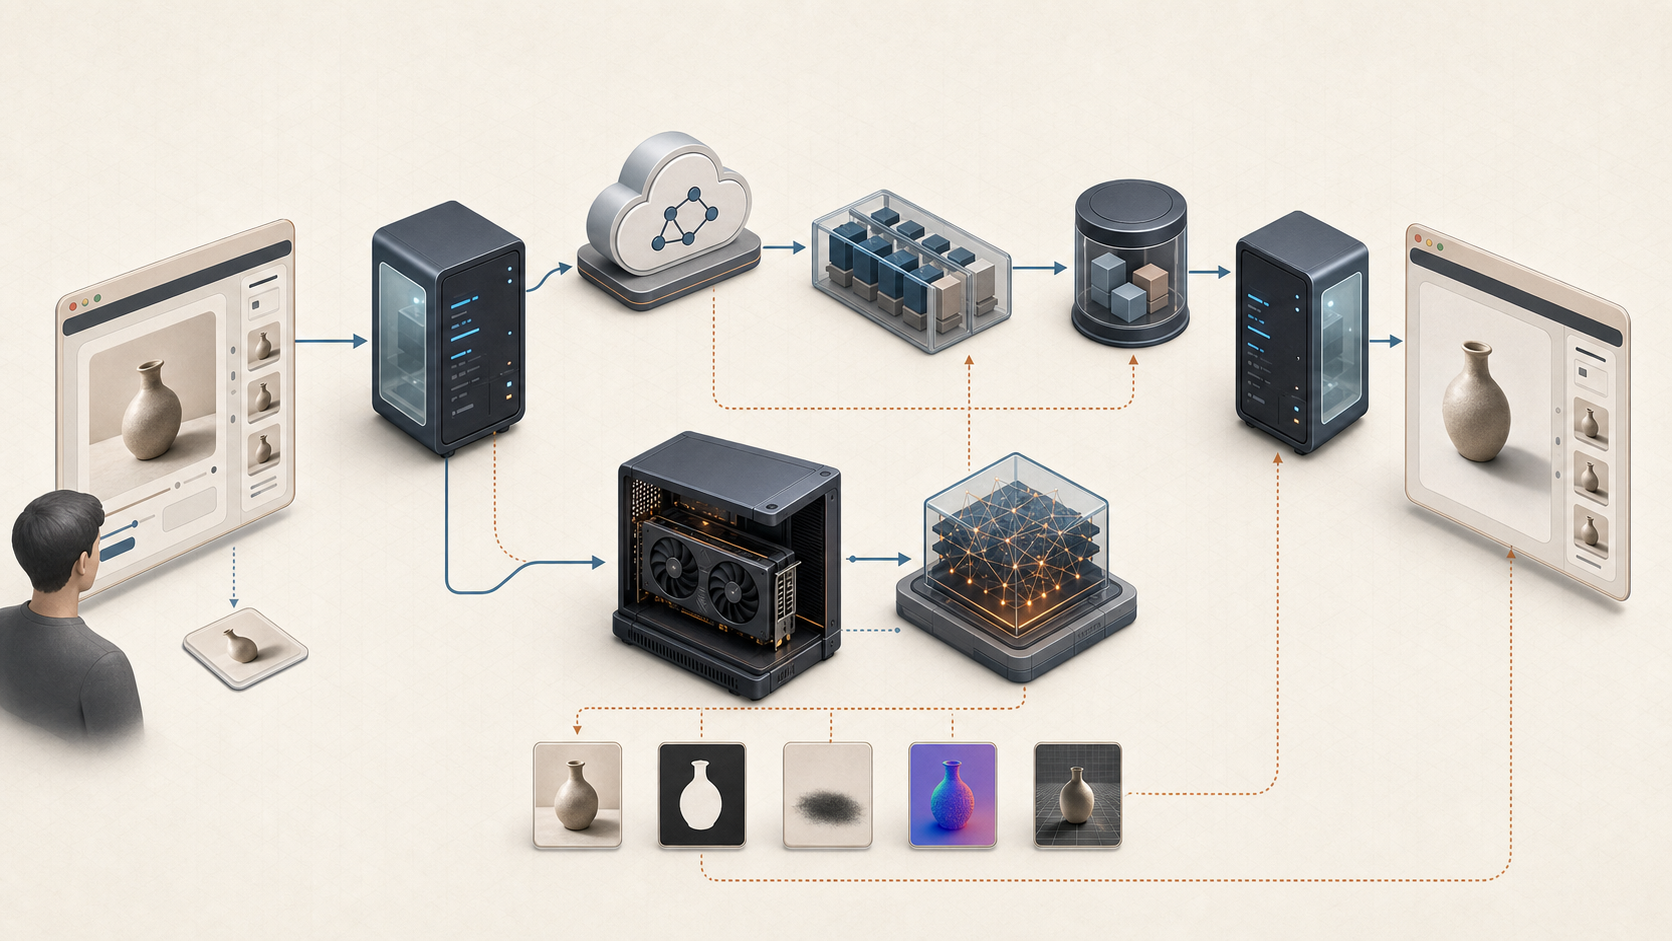
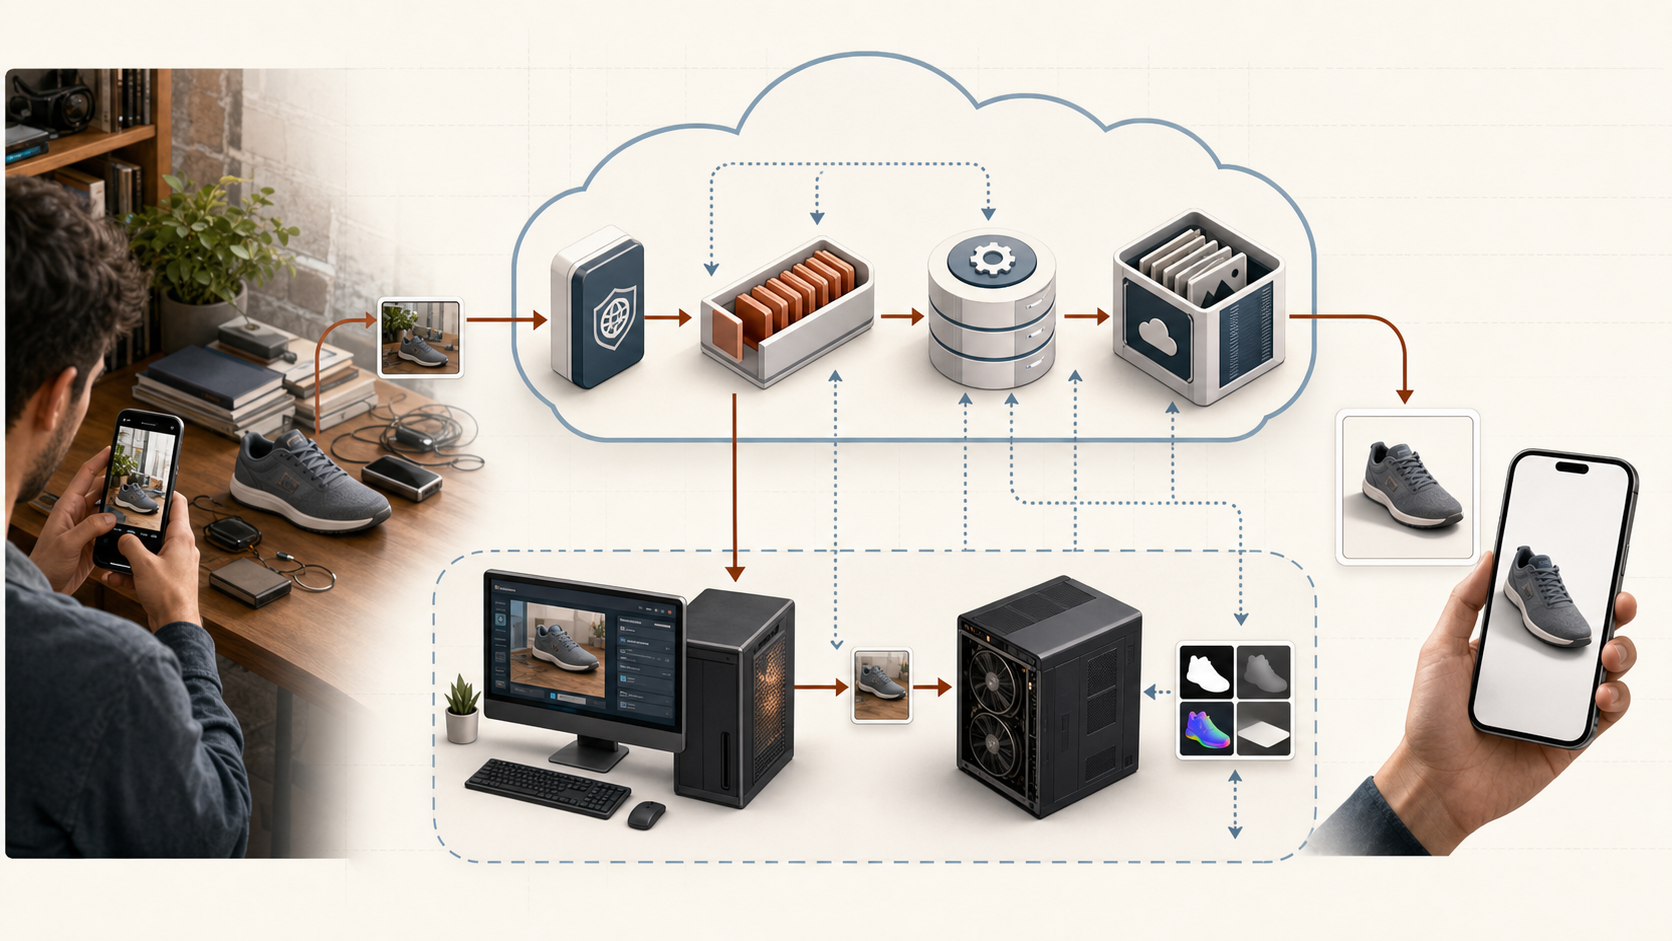
Correct service architecture illustrations

diff --git a/docs/project-page/index.html b/docs/project-page/index.html
@@ -654,8 +654,8 @@
   <script>
     const mediaCaptions = {
       video: "Входное изображение проходит через выделение объекта, оценку сцены, генерацию тени и финальную композицию.",
-      product: "Пользовательский запрос проходит через web и API, очередь задач, локальный worker и ML-сервис; результаты и диагностические артефакты возвращаются через общее хранилище.",
-      service: "ML-сервис последовательно выполняет detection, segmentation, foreground refinement, depth, normals, shadow generation и composition.",
+      product: "Пользователь фотографирует объект на телефоне. Задача попадает в облачную очередь, откуда ее забирает worker на локальном компьютере и передает локальному GPU-серверу.",
+      service: "ML-сервис выделяет объект из фотографии с произвольным фоном, оценивает depth и normals, генерирует тень и собирает итоговую композицию.",
       dataset: "Датасет собирается из отфильтрованных 3D-объектов: Blender-рендеринг формирует RGB, depth, normals, mask и metadata для каждой сцены.",
       training: "Training workspace связывает версии датасета, конфигурации экспериментов, GPU-обучение, оценку результатов и экспорт модели для inference."
     };

diff --git a/docs/project-page/IMAGE_PROMPTS.md b/docs/project-page/IMAGE_PROMPTS.md
@@ -9,15 +9,15 @@
 ```text
 Use case: infographic-diagram
 Asset type: wide technical illustration for an academic ML project page, 16:9 landscape
-Primary request: illustrate the complete ShadowGen product runtime from user request to finished result
+Primary request: illustrate the complete ShadowGen product runtime from a smartphone photo to the finished result
 Scene/backdrop: warm off-white editorial background with a faint technical grid and generous margins
-Subject: a user uploads a product photo through a refined browser interface; the request passes into an API gateway, then a cloud message queue and shared object storage, then reaches a worker on a local GPU workstation; the worker calls an ML inference service; final and diagnostic artifacts travel back through storage and API to the browser, which displays the product with a realistic soft contact shadow
+Subject: far left, a real user photographs an everyday object with a smartphone in a visually varied environment containing books, a plant, cables, textured surfaces and other background objects; upper center, a clearly separated cloud boundary contains only the API entry point, task queue, shared state and object storage; lower center, a clearly separated local boundary contains a desktop computer running the worker and a separate local GPU inference server; the worker pulls a task from the cloud queue and sends it to the GPU server; far right, the result returns to the user's smartphone with the isolated object and a realistic soft contact shadow on a clean target background
 Style/medium: premium technical editorial infographic, precise isometric 3D modules mixed with clean diagrammatic flows, sophisticated research project figure, not corporate clipart
-Composition/framing: clear horizontal and slightly circular end-to-end flow, browser on left and final browser result on right, cloud services centered above, worker and GPU inference centered below
+Composition/framing: clear end-to-end flow, user and source photo on the left, cloud infrastructure above, local worker and separate GPU server below, final smartphone result on the right
 Lighting/mood: soft studio lighting, calm, serious, technically credible
 Color palette: warm white, charcoal, muted steel blue, restrained terracotta accents
 Materials/textures: matte paper, frosted glass interfaces, brushed dark metal compute modules
-Constraints: no words, no labels, no letters, no numbers, no logos, no watermark; all modules must be visually distinct; no decorative blobs; readable at website hero size
+Constraints: no words, no labels, no letters, no numbers, no logos, no watermark; do not depict the worker inside the cloud; do not merge the local computer and GPU server; keep GPU server internals visually simple; all modules must be visually distinct; no decorative blobs; readable at website hero size
 ```
 
 ## ML service
@@ -29,13 +29,13 @@ Use case: infographic-diagram
 Asset type: wide technical illustration for an academic ML project page, 16:9 landscape
 Primary request: illustrate the internal ShadowGen ML inference service as a multi-stage image-processing pipeline
 Scene/backdrop: warm off-white editorial background with a faint precise grid and generous margins
-Subject: one product photograph passes through visually distinct stages: object detection bounding region, clean segmentation cutout, refined alpha edges, depth map, surface normal map, generated contact shadow, and final composition; include a compact GPU inference server and stage diagnostics as supporting elements
+Subject: one realistic smartphone product photograph with a visually varied natural background containing a textured desk, books, plant, cables and other objects passes through visually distinct stages: object detection on the busy photo, clean segmentation cutout with transparent background, refined alpha edges, depth map, surface normal map, generated contact shadow, and final composition on a clean neutral target background; include a compact local GPU inference server and stage diagnostics as supporting elements
 Style/medium: premium scientific editorial infographic, precise isometric 3D panels and image-processing visualizations, clean and technically credible, suitable for a machine learning project release
 Composition/framing: left-to-right pipeline with seven visually recognizable image panels connected by thin directional paths, final result emphasized on the right
 Lighting/mood: neutral studio lighting, calm, rigorous
 Color palette: warm white, charcoal, muted steel blue, restrained terracotta, depth-map blue-gray, normal-map RGB accents only where technically appropriate
 Materials/textures: matte paper panels, subtle glass, dark metal compute module
-Constraints: no words, no labels, no letters, no numbers, no logos, no watermark; no decorative blobs; each processing stage must visually differ; readable at website hero size
+Constraints: no words, no labels, no letters, no numbers, no logos, no watermark; source image must not be a studio image or use a plain monochrome background; preserve the same object consistently through every stage; keep GPU server internals visually simple; no decorative blobs; each processing stage must visually differ; readable at website hero size
 ```
 
 ## Dataset pipeline